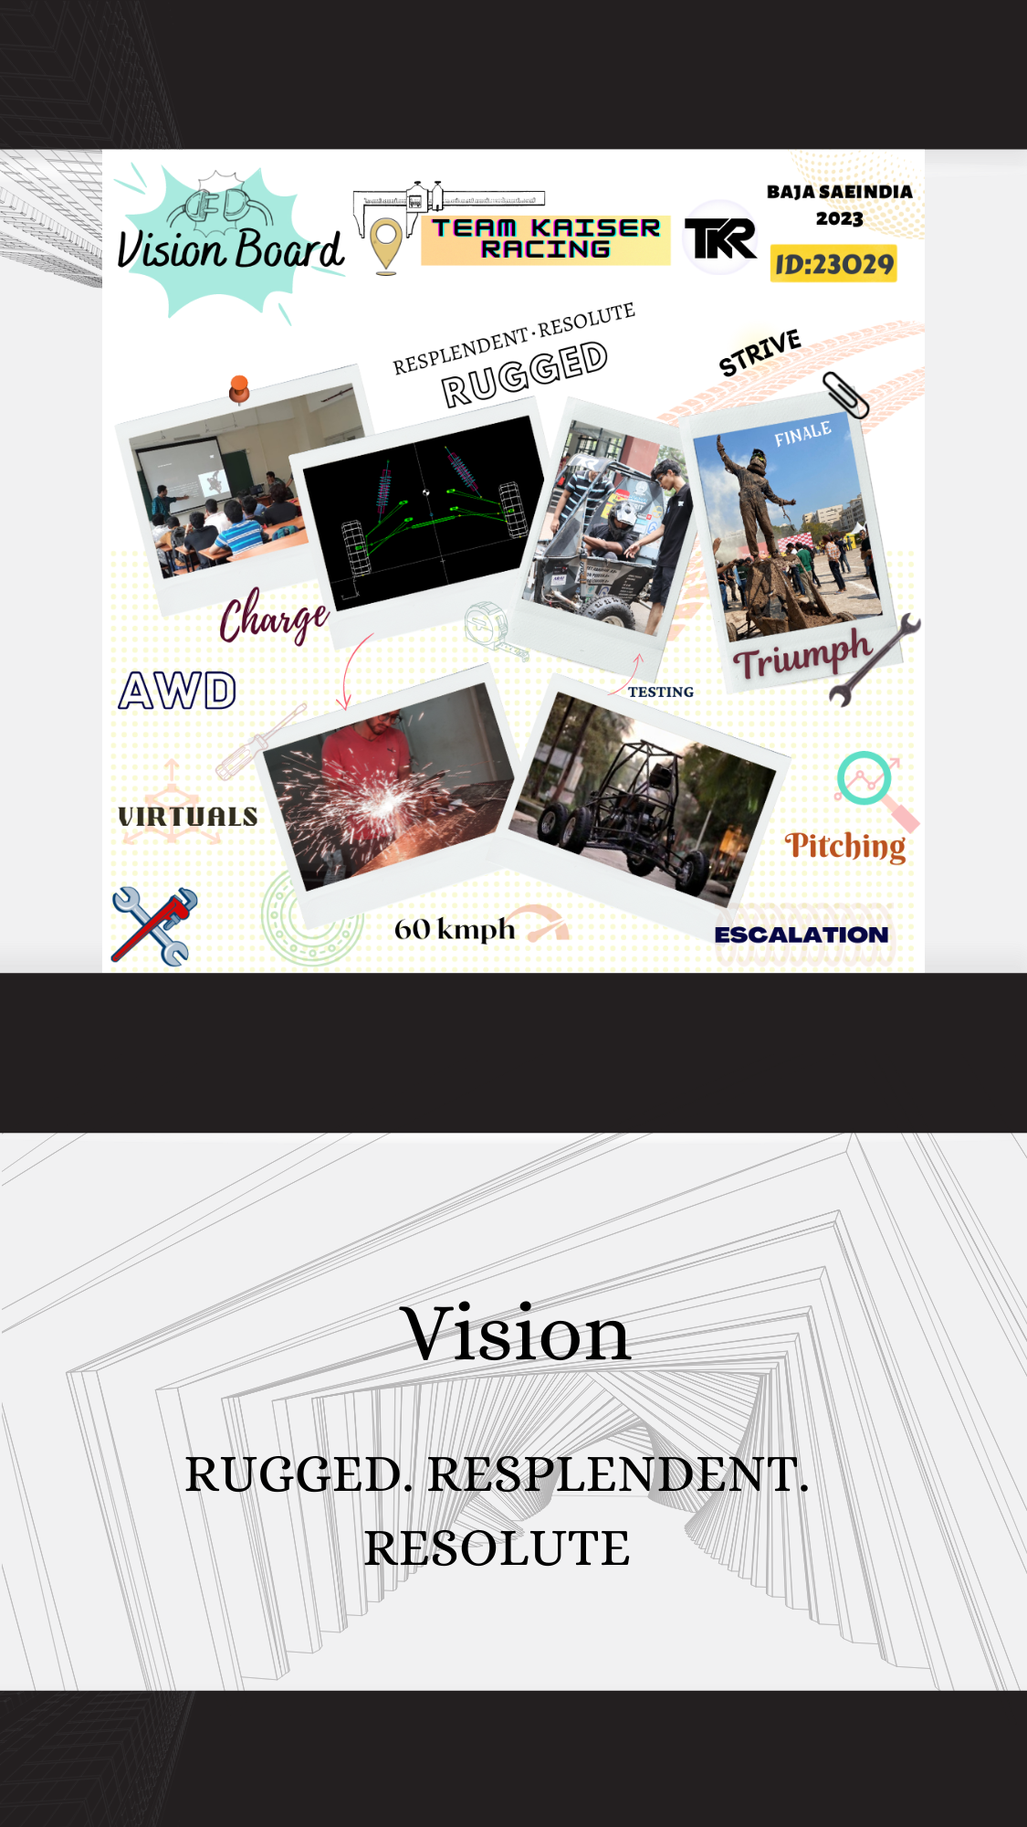
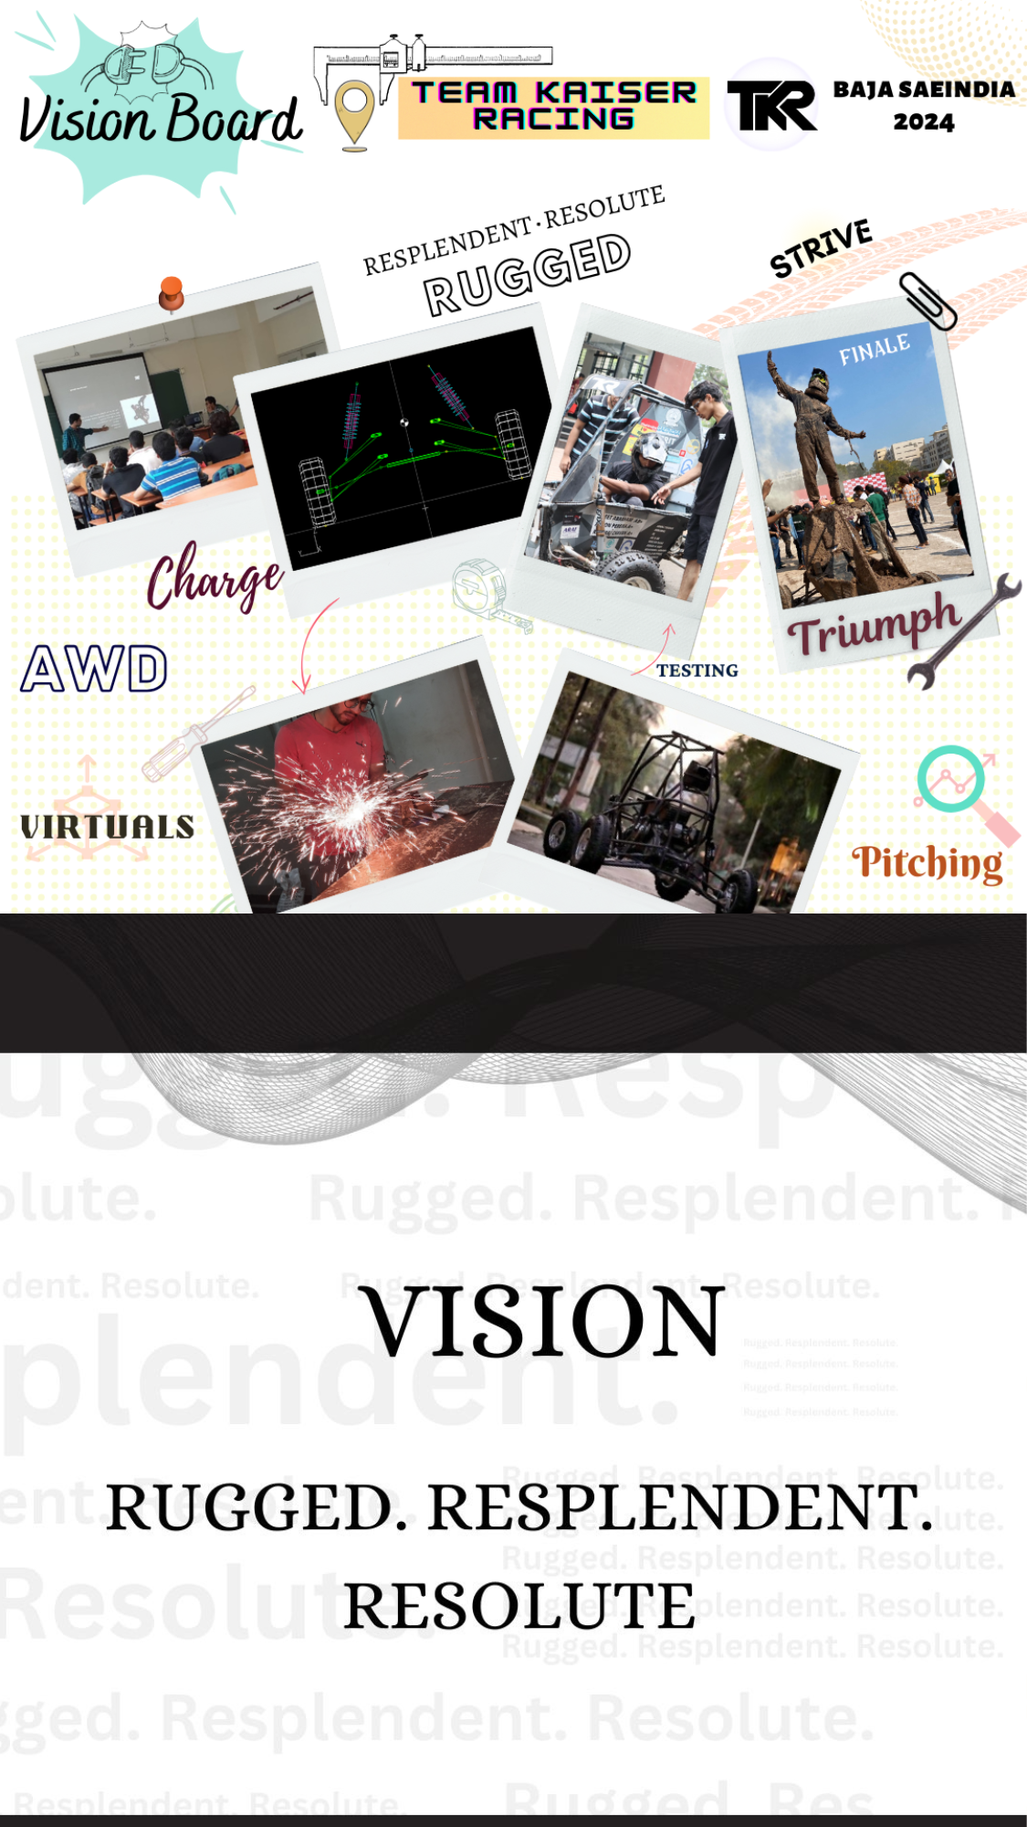
first commit

diff --git a/team.html b/team.html
@@ -53,30 +53,30 @@
                 <div class="row">
                     <div class="col-lg-4">
                         <div class="team-member">
-                            <img class="mx-auto rounded-circle zoom" src="assets/img/team/1.jfif" alt="..." />
-                            <h4>Siddharth Kannadkar</h4>
-                            <p class="text-muted">Captain and Rollcage Head</p>
-                            <a class="btn btn-dark btn-social mx-2" href="#!" aria-label="Diana Petersen Twitter Profile"><i class="fab fa-instagram"></i></a>
-                            <a class="btn btn-dark btn-social mx-2" href="https://www.linkedin.com/in/siddharth-kannadkar-440105210/" aria-label="Diana Petersen LinkedIn Profile"><i class="fab fa-linkedin-in"></i></a>
+                            <img class="mx-auto rounded-circle zoom" src="assets/img/team/prathmesh.jpg" alt="..." />
+                            <h4>Prathamesh Mane</h4>
+                            <p class="text-muted">Captain and Driver</p>
+                            <a class="btn btn-dark btn-social mx-2" href="https://www.instagram.com/manep_10?igsh=OWdkemNoMGh2M3Vl" aria-label="Diana Petersen Twitter Profile"><i class="fab fa-instagram"></i></a>
+                            <a class="btn btn-dark btn-social mx-2" href="https://www.linkedin.com/in/prathamesh-mane-a58046213?utm_source=share&utm_campaign=share_via&utm_content=profile&utm_medium=android_app" aria-label="Diana Petersen LinkedIn Profile"><i class="fab fa-linkedin-in"></i></a>
                         </div>
                     </div>
                     <div class="col-lg-4">
                         <div class="team-member">
-                            <img class="mx-auto rounded-circle zoom" src="assets/img/team/2.jfif" alt="..." />
-                            <h4>Harsh Chaudhary</h4>
-                            <p class="text-muted">Vice Captain and Powertrain Head</p>
-                            <a class="btn btn-dark btn-social mx-2" href="#!" aria-label="Parveen Anand Twitter Profile"><i class="fab fa-instagram"></i></a>
-                            <a class="btn btn-dark btn-social mx-2" href="https://www.linkedin.com/in/harsh-chaudhary-48b872221/" aria-label="Parveen Anand LinkedIn Profile"><i class="fab fa-linkedin-in"></i></a>
+                            <img class="mx-auto rounded-circle zoom" src="assets/img/team/hardik.jpg" alt="..." />
+                            <h4>Hardik Thasale</h4>
+                            <p class="text-muted">Vice Captain and Suspension Head</p>
+                            <a class="btn btn-dark btn-social mx-2" href="https://www.instagram.com/hardik_882?igsh=MXg0Mnp2bHhpMG45Nw==" aria-label="Parveen Anand Twitter Profile"><i class="fab fa-instagram"></i></a>
+                            <a class="btn btn-dark btn-social mx-2" href="https://www.linkedin.com/in/hardik-thasale-009473244?utm_source=share&utm_campaign=share_via&utm_content=profile&utm_medium=android_app" aria-label="Parveen Anand LinkedIn Profile"><i class="fab fa-linkedin-in"></i></a>
                         </div>
                         
                     </div>
                     <div class="col-lg-4">
                         <div class="team-member">
-                            <img class="mx-auto rounded-circle zoom" src="assets/img/team/3.jfif" alt="..." />
-                            <h4>Yash Vaidya</h4>
-                            <p class="text-muted">Vehicle Dynamics Head</p>
-                            <a class="btn btn-dark btn-social mx-2" href="#!" aria-label="Larry Parker Twitter Profile"><i class="fab fa-instagram"></i></a>
-                            <a class="btn btn-dark btn-social mx-2" href="https://www.linkedin.com/in/yash-vaidya-33b112147/" aria-label="Larry Parker LinkedIn Profile"><i class="fab fa-linkedin-in"></i></a>
+                            <img class="mx-auto rounded-circle zoom" src="assets/img/team/siddhant.jpg" alt="..." />
+                            <h4>Siddhant Kadam</h4>
+                            <p class="text-muted">Rollcage Head</p>
+                            <a class="btn btn-dark btn-social mx-2" href="https://www.instagram.com/__siddhant__27_?igsh=MTZ0ZTJyMnAxbmg1Mw==" aria-label="Larry Parker Twitter Profile"><i class="fab fa-instagram"></i></a>
+                            <a class="btn btn-dark btn-social mx-2" href="https://www.linkedin.com/in/siddhant-kadam-55a352241?utm_source=share&utm_campaign=share_via&utm_content=profile&utm_medium=android_app" aria-label="Larry Parker LinkedIn Profile"><i class="fab fa-linkedin-in"></i></a>
                         </div>
                     </div>
                 </div>
@@ -84,31 +84,31 @@
             <div class="row">
                     <div class="col-lg-4">
                         <div class="team-member">
-                            <img class="mx-auto rounded-circle zoom" src="assets\img\team\noel.jpg" alt="..." />
-                            <h4>Noel Varghese</h4>
-                            <p class="text-muted">Brakes Head</p>
-                            <a class="btn btn-dark btn-social mx-2" href="#!" aria-label="Larry Parker Twitter Profile"><i class="fab fa-instagram"></i></a>
-                            <a class="btn btn-dark btn-social mx-2" href="https://www.linkedin.com/in/prathameshvaity/" aria-label="Larry Parker LinkedIn Profile"><i class="fab fa-linkedin-in"></i></a>
+                            <img class="mx-auto rounded-circle zoom" src="assets\img\team\anirudha.jpg" alt="..." />
+                            <h4>Anirudda Habade</h4>
+                            <p class="text-muted">Powertrain Head</p>
+                            <a class="btn btn-dark btn-social mx-2" href="https://www.instagram.com/ich_bin_anirudh?igsh=bWpydTU0ejl5cmVx" aria-label="Larry Parker Twitter Profile"><i class="fab fa-instagram"></i></a>
+                            <a class="btn btn-dark btn-social mx-2" href="https://www.linkedin.com/in/aniruddha-habade-2141a6201?utm_source=share&utm_campaign=share_via&utm_content=profile&utm_medium=android_app" aria-label="Larry Parker LinkedIn Profile"><i class="fab fa-linkedin-in"></i></a>
                         </div>
                     </div>
                 
                         <div class="col-lg-4">
                             <div class="team-member">
-                                <img class="mx-auto rounded-circle zoom" src="assets/img/team/4.jfif" alt="..." />
-                                <h4>Prathamesh Vaity</h4>
-                                <p class="text-muted">CAE Head</p>
+                                <img class="mx-auto rounded-circle zoom" src="assets/img/team/suyesh.jpg" alt="..." />
+                                <h4>Suyash Bare</h4>
+                                <p class="text-muted">Steering Head</p>
                                 <a class="btn btn-dark btn-social mx-2" href="#!" aria-label="Larry Parker Twitter Profile"><i class="fab fa-instagram"></i></a>
-                                <a class="btn btn-dark btn-social mx-2" href="https://www.linkedin.com/in/prathameshvaity/" aria-label="Larry Parker LinkedIn Profile"><i class="fab fa-linkedin-in"></i></a>
+                                <a class="btn btn-dark btn-social mx-2" href="https://www.linkedin.com/in/suyash-bare-b7638b219?utm_source=share&utm_campaign=share_via&utm_content=profile&utm_medium=android_app" aria-label="Larry Parker LinkedIn Profile"><i class="fab fa-linkedin-in"></i></a>
                             </div>
                         </div>
 
                         <div class="col-lg-4">
                             <div class="team-member">
                                 <img class="mx-auto rounded-circle zoom" src="assets\img\team\rutwik.jpeg" alt="..." />
-                                <h4>Rutwik Saste</h4>
-                                <p class="text-muted">Sponsership & PR Head</p>
-                                <a class="btn btn-dark btn-social mx-2" href="https://www.instagram.com/___rutwik/" aria-label="Larry Parker Twitter Profile"><i class="fab fa-instagram"></i></a>
-                                <a class="btn btn-dark btn-social mx-2" href="https://www.linkedin.com/in/rutwik-saste-a14581207" aria-label="Larry Parker LinkedIn Profile"><i class="fab fa-linkedin-in"></i></a>
+                                <h4>Siddhesh Padate</h4>
+                                <p class="text-muted">CAE Head</p>
+                                <a class="btn btn-dark btn-social mx-2" href="https://www.instagram.com/siddrago2002?igsh=MWh1NWN0dnpieTNscQ==" aria-label="Larry Parker Twitter Profile"><i class="fab fa-instagram"></i></a>
+                                <a class="btn btn-dark btn-social mx-2" href="#!" aria-label="Larry Parker LinkedIn Profile"><i class="fab fa-linkedin-in"></i></a>
                             </div>
                         </div>
                         </div>
@@ -117,30 +117,30 @@
                         <div class="col-lg-4">
                             <div class="team-member">
                                 <img class="mx-auto rounded-circle zoom" src="assets\img\team\ritu.jpeg" alt="..." />
-                                <h4>Ritu Khimasiya</h4>
-                                <p class="text-muted">Social Head</p>
-                                <a class="btn btn-dark btn-social mx-2" href="#!" aria-label="Larry Parker Twitter Profile"><i class="fab fa-instagram"></i></a>
-                                <a class="btn btn-dark btn-social mx-2" href="https://www.linkedin.com/in/prathameshvaity/" aria-label="Larry Parker LinkedIn Profile"><i class="fab fa-linkedin-in"></i></a>
+                                <h4>Atharva Dake</h4>
+                                <p class="text-muted">Manufacturing Head</p>
+                                <a class="btn btn-dark btn-social mx-2" href="https://www.instagram.com/dake_._atharva?igsh=NXdvamNhY2drcGh3" aria-label="Larry Parker Twitter Profile"><i class="fab fa-instagram"></i></a>
+                                <a class="btn btn-dark btn-social mx-2" href="https://www.linkedin.com/in/dakeatharva?utm_source=share&utm_campaign=share_via&utm_content=profile&utm_medium=android_app" aria-label="Larry Parker LinkedIn Profile"><i class="fab fa-linkedin-in"></i></a>
                             </div>
                         </div>
                
                         <div class="col-lg-4">
                             <div class="team-member">
-                                <img class="mx-auto rounded-circle zoom" src="assets\img\team\ritka.jpeg" alt="..." />
-                                <h4>Ritka Sonkusare</h4>
-                                <p class="text-muted">Marketing Head</p>
-                                <a class="btn btn-dark btn-social mx-2" href="http://www.instagram.com/ritka_sonkusare" aria-label="Larry Parker Twitter Profile"><i class="fab fa-instagram"></i></a>
-                                <a class="btn btn-dark btn-social mx-2" href="https://www.linkedin.com/in/ritka-sonkusare-0a42b1215" aria-label="Larry Parker LinkedIn Profile"><i class="fab fa-linkedin-in"></i></a>
+                                <img class="mx-auto rounded-circle zoom" src="assets\img\team\pradnya.jpg" alt="..." />
+                                <h4>Pradnya Bokade</h4>
+                                <p class="text-muted">PR Head</p>
+                                <a class="btn btn-dark btn-social mx-2" href="https://www.instagram.com/pradnya_190?igsh=MTlxb2k4bmIxcDFiMg==" aria-label="Larry Parker Twitter Profile"><i class="fab fa-instagram"></i></a>
+                                <a class="btn btn-dark btn-social mx-2" href="https://www.linkedin.com/in/pradnya-bokade-5b9a56230?utm_source=share&utm_campaign=share_via&utm_content=profile&utm_medium=android_app" aria-label="Larry Parker LinkedIn Profile"><i class="fab fa-linkedin-in"></i></a>
                             </div>
                         </div>
 
                         <div class="col-lg-4">
                             <div class="team-member">
                                 <img class="mx-auto rounded-circle zoom" src="assets/img/team/christu.jpg" alt="..." />
-                                <h4>Christo Sibi</h4>
-                                <p class="text-muted">Manufacturing Head</p>
-                                <a class="btn btn-dark btn-social mx-2" href="#!" aria-label="Larry Parker Twitter Profile"><i class="fab fa-instagram"></i></a>
-                                <a class="btn btn-dark btn-social mx-2" href="https://www.linkedin.com/in/prathameshvaity/" aria-label="Larry Parker LinkedIn Profile"><i class="fab fa-linkedin-in"></i></a>
+                                <h4>Jayesh Kapadnis</h4>
+                                <p class="text-muted">Marketing Head</p>
+                                <a class="btn btn-dark btn-social mx-2" href="https://www.instagram.com/_jayeshk?igsh=MTZ6NDJ1NjVjNzByaw==" aria-label="Larry Parker Twitter Profile"><i class="fab fa-instagram"></i></a>
+                                <a class="btn btn-dark btn-social mx-2" href="https://www.linkedin.com/in/jayesh-kapadnis-350b26238?utm_source=share&utm_campaign=share_via&utm_content=profile&utm_medium=android_app" aria-label="Larry Parker LinkedIn Profile"><i class="fab fa-linkedin-in"></i></a>
                             </div>
                         </div>
                     <!-- <div class="col-lg-3">
@@ -334,10 +334,10 @@
         <footer class="footer py-4">
             <div class="container">
                 <div class="row align-items-center footerDiv">
-                    <div class="col-lg-4 text-lg-start">Copyright &copy; Team Kaiser 2022</div>
+                    <div class="col-lg-4 text-lg-start">Copyright &copy; Team Kaiser 2024</div>
                     <div class="col-lg-4 my-3 my-lg-0 linkSocial">
                         <!-- <a class="btn btn-dark btn-social mx-2" href="#!" aria-label="Twitter"><i class="fab fa-twitter"></i></a> -->
-                        <a class="btn btn-dark btn-social mx-2" href="https://instagram.com/fcrit.kaiserracing?igshid=YzA2ZDJiZGQ=" aria-label="Instagram"><i class="fab fa-instagram"></i></a>
+                        <a class="btn btn-dark btn-social mx-2" href="https://www.instagram.com/team.kaiser.racing?igsh=MW9yaTl5dDgwYjBhdw==" aria-label="Instagram"><i class="fab fa-instagram"></i></a>
                         <a class="btn btn-dark btn-social mx-2" href="https://www.linkedin.com/company/team-kaiser-racing/" aria-label="LinkedIn"><i class="fab fa-linkedin-in"></i></a>
                     </div>
                     <!--

diff --git a/about.html b/about.html
@@ -61,7 +61,7 @@
                                 <div class="portfolio-hover">
                                     <div class="portfolio-hover-content"> <!--<i class="fas fa-plus fa-3x"></i> --></div>
                                 </div>
-                                <img class="img-fluid" src="assets/img/portfolio/1.heic" alt="Image Loading" />
+                                <img class="img-fluid" src="assets/img/portfolio/carimg1.jpg" alt="Image Loading" />
                             </a>
                             <!--
                             <div class="portfolio-caption">
@@ -78,7 +78,7 @@
                                 <div class="portfolio-hover">
                                     <div class="portfolio-hover-content"><!--<i class="fas fa-plus fa-3x"></i> --></div>
                                 </div>
-                                <img class="img-fluid" src="assets/img/portfolio/2.jpg" alt="Image Loading" />
+                                <img class="img-fluid" src="assets/img/portfolio/carimg2.jpg" alt="Image Loading" />
                             </a>
                             <!--
                             <div class="portfolio-caption">
@@ -95,7 +95,7 @@
                                 <div class="portfolio-hover">
                                     <div class="portfolio-hover-content"><!--<i class="fas fa-plus fa-3x"></i> --></div>
                                 </div>
-                                <img class="img-fluid" src="assets/img/portfolio/3.heic" alt="Image Loading" />
+                                <img class="img-fluid" src="assets/img/portfolio/carimg3.jpg" alt="Image Loading" />
                             </a>
                             <!--
                                 <div class="portfolio-caption">
@@ -113,7 +113,7 @@
                                 <div class="portfolio-hover">
                                     <div class="portfolio-hover-content"><!--<i class="fas fa-plus fa-3x"></i>--></div>
                                 </div>
-                                <img class="img-fluid" src="assets/img/portfolio/4.jpeg" alt="..." />
+                                <img class="img-fluid" src="assets/img/portfolio/carimg4.jpg" alt="..." />
                             </a>
                             <!--
                             <div class="portfolio-caption">
@@ -224,16 +224,6 @@
                         </div>
                     </li>
                     <li class="timeline-inverted">
-                        <div class="timeline-image"><img class="rounded-circle img-fluid zoom" src="assets/img/about/2.jpg" alt="..." /></div>
-                        <div class="timeline-panel">
-                            <div class="timeline-heading">
-                                <h4>2018-2019</h4>
-                                <h4 class="subheading">Virtual Event(June'18)</h4>
-                            </div>
-                            <div class="timeline-body"><p class="text-muted">New Team , Secured 129/295 all over India.</p></div>
-                        </div>
-                    </li>
-                    <li>
                         <div class="timeline-image"><img class="rounded-circle img-fluid zoom" src="assets/img/about/3.png" alt="..." /></div>
                         <div class="timeline-panel">
                             <div class="timeline-heading">
@@ -243,17 +233,7 @@
                             <div class="timeline-body"><p class="text-muted">4th in the Final Endurance Race. <br />13th in Design Evaluation Report. <br />1st among the New Teams.</p></div>
                         </div>
                     </li>
-                    <li class="timeline-inverted">
-                        <div class="timeline-image"><img class="rounded-circle img-fluid zoom" src="assets/img/about/4.jpg" alt="..." /></div>
-                        <div class="timeline-panel">
-                            <div class="timeline-heading">
-                                <h4>2019-2020</h4>
-                                <h4 class="subheading">Virtual Event (July'19)</h4>
-                            </div>
-                            <div class="timeline-body"><p class="text-muted">Secured Rank 43/282 Overall!</p></div>
-                        </div>
-                    </li>
-                    <li class="timeline-image">
+                    <li>
                         <div class="timeline-image"><img class="rounded-circle img-fluid zoom" src="assets/img/about/5.jpeg" alt="..." /></div>
                         <div class="timeline-panel">
                             <div class="timeline-heading">
@@ -261,7 +241,27 @@
                                 <h4 class="subheading">Main Event (March'20)</h4>
                             </div>
                             <div class="timeline-body"><p class="text-muted">One of only 32 Teams out of 87 to complete endurance race successfully.
-                                <br />15th in Design Evaluation Report.
+                                <br />15th in Design Evaluation Report.</p></div>
+                        </div>
+                    </li>
+                    <li class="timeline-inverted">
+                        <div class="timeline-image"><img class="rounded-circle img-fluid zoom" src="assets/img/about/6.png" alt="..." /></div>
+                        <div class="timeline-panel">
+                            <div class="timeline-heading">
+                                <h4>2022-2023</h4>
+                                <h4 class="subheading">Preliminary Round(October'22)</h4>
+                            </div>
+                            <div class="timeline-body"><p class="text-muted">Secured All India Rank 36.</p></div>
+                        </div>
+                    </li>
+                    <li class="timeline-image">
+                        <div class="timeline-image"><img class="rounded-circle img-fluid zoom" src="assets/img/about/5.jpeg" alt="..." /></div>
+                        <div class="timeline-panel">
+                            <div class="timeline-heading">
+                                <h4></h4>
+                                <h4 class="subheading"></h4>
+                            </div>
+                            <div class="timeline-body"><p class="text-muted">
                             </p></div>
                         </div>
                     </li>
@@ -279,10 +279,10 @@
                         <div class="timeline-image"><img class="rounded-circle img-fluid zoom" src="assets/img/about/5.jpeg" alt="..." /></div>
                         <div class="timeline-panel">
                             <div class="timeline-heading">
-                                <h4>2022-2023</h4>
-                                <h4 class="subheading">Preliminary Round(October'22)</h4>
+                                <h4></h4>
+                                <h4 class="subheading"></h4>
                             </div>
-                            <div class="timeline-body"><p class="text-muted">Secured All India Rank 36.</p></div>
+                            <div class="timeline-body"><p class="text-muted"></p></div>
                         </div>
                     </li>
                     <li class="timeline-inverted">

diff --git a/index.html b/index.html
@@ -51,7 +51,7 @@
 
         <Div>
             <div>
-                <img class="vision" src="assets\img\vision.png" alt="image">
+                <img class="vision" src="assets\img\vision.jpg" alt="image">
                 <img class="vision-phone" src="assets\img\vision-phone.png" alt="image">
             </div>
         </Div>
@@ -77,7 +77,7 @@
                 </div>
                 <div class="team-text col-lg-6">
                     <div>
-                        <a href="team.html"><h1>Blitz 2024</h1></a>
+                        <a href="team.html"><h1>2024</h1></a>
                     </div>
                     <br>
                     <br>
